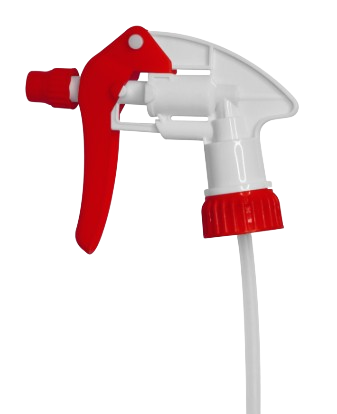
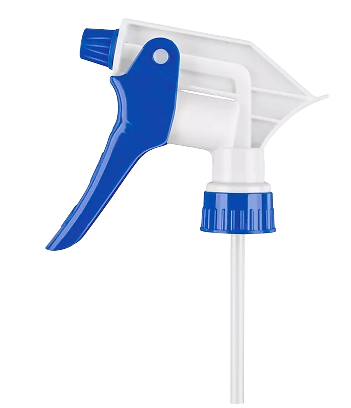
cambios img 24 junio

Changed region(s): [[0.0593, 0.0294, 0.9199, 1.0]]

diff --git a/styles.css b/styles.css
@@ -24,7 +24,7 @@ header {
     left: 0;
     width: 100%;       /* ocupa todo el ancho */
     background: white; /* fondo sólido */
-    padding: 20px;
+    padding: 12px;
     box-shadow: 0 2px 10px rgba(0,0,0,.08);
     z-index: 1000;     /* queda encima del contenido */
 }
@@ -286,7 +286,7 @@ main{
 
 /* Ajuste para que el contenido no se tape */
 main {
-  padding-top: 180px; /* ajusta según la altura real del header/topbar */
+  padding-top: 120px; /* ajusta según la altura real del header/topbar */
 }
 
 